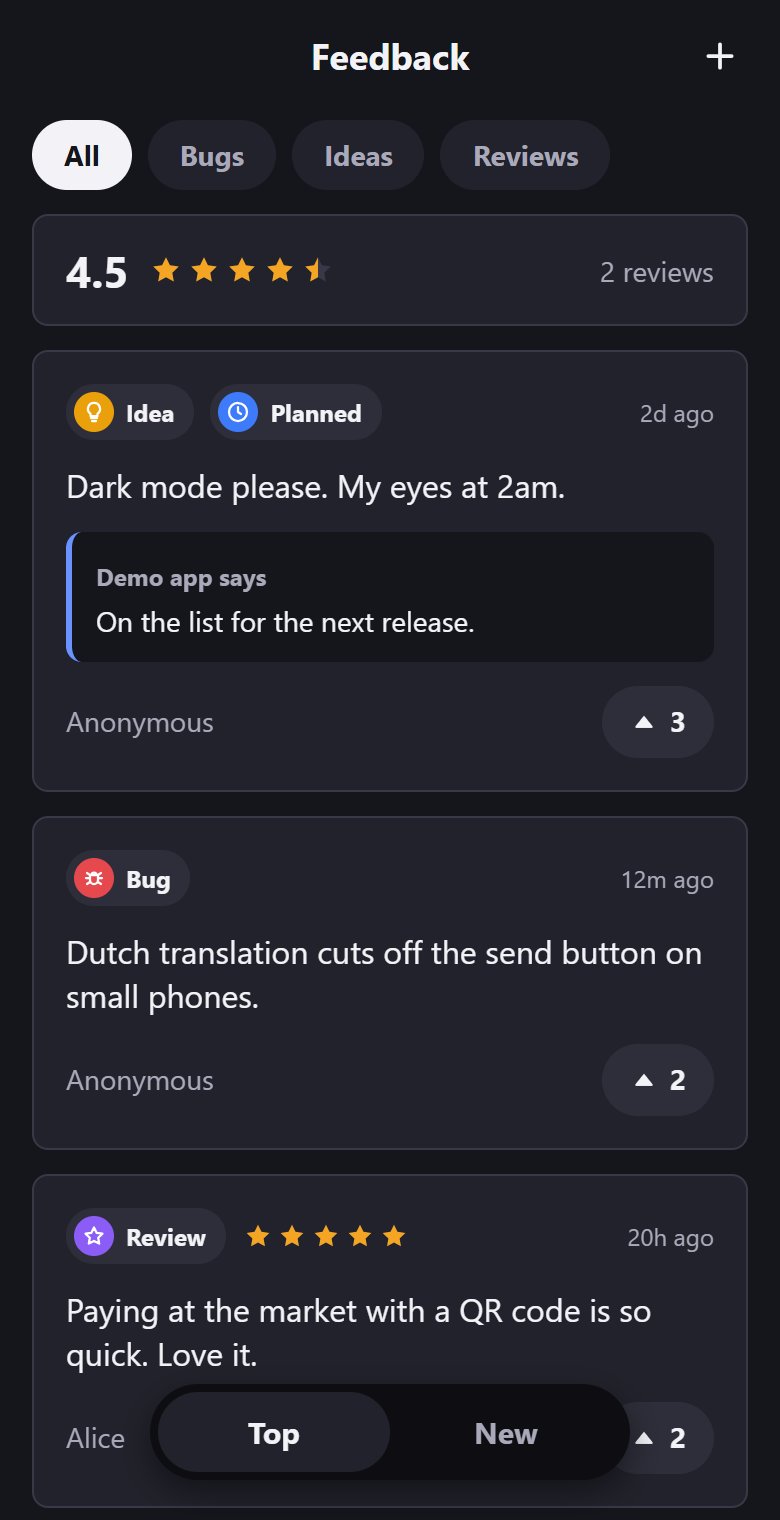
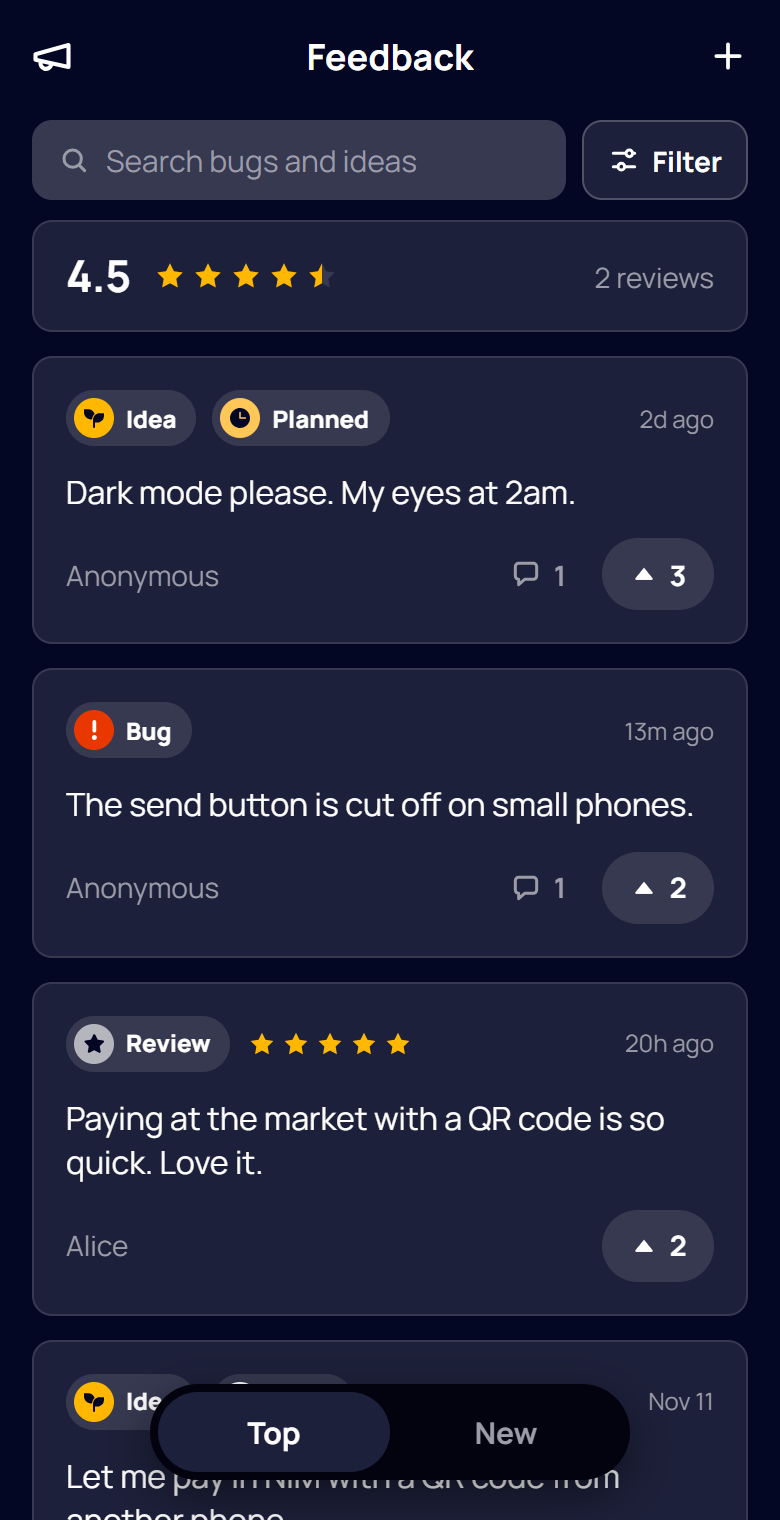
Bring the docs, screenshots and versions to 0.3.0
The README shows the Nimiq themes, the decisions log says where the
Classic look went (the branch classic), and the three packages move to
0.3.0 together.

Changed region(s): [[0.0308, 0.0309, 0.9846, 1.0], [0.6154, 0.9276, 0.6769, 0.9586], [0.8615, 0.9276, 0.8923, 0.9586]]

diff --git a/docs/decisions.md b/docs/decisions.md
@@ -4,6 +4,12 @@ Why PleaseNoBugs is the way it is. Newest at the bottom. When a decision is
 reversed, add a new entry rather than editing the old one, so the reasoning
 that was tried survives.
 
+Until 2026-11-19 the website and the widget also had a second, playful look
+("Classic": dark purple, raised buttons, colouring the widget in yourself) and
+spoke Dutch and German. Entries about those describe code that is no longer
+on `main`; it is kept on the branch `classic` (tag `classic-2026-11-19`).
+See the entry of that day.
+
 ## 2026-10-14: Where it comes from
 
 Extracted from the feedback board in [Shitti](https://shitti.me), a Nimiq Pay
@@ -1572,6 +1578,26 @@ it is that master mark (91 × 80, Brand/500), exported as
 `assets/nimiq/hexagon-2026.svg`: in the header (27 × 24, the brand's 0.4 ×
 its height to the name), the footer, the tab's icon and the last step of
 Make it yours; also swapped in the Figma page's logo and footer components.
+
+## 2026-11-19: Nimiq only, English only
+
+For sharing with a team, the project is one thing: the Nimiq look.
+
+- **The website** has one look, the Nimiq 2026 brand. The style switch, the
+  Classic look, its colouring Customize and the "Build your own widget"
+  scene are gone; site.css is the one stylesheet (it was site.css, a
+  customize.css and a nimiq.css on top). Visitors see the same pages as
+  before: every state was compared screenshot by screenshot.
+- **The widget** has two themes, `nimiq` (now the default) and
+  `nimiq-dark`. `auto`, `light`, `dark`, `pleasenobugs` and `shitti`, the
+  `accent` attribute and `readableOn` are gone; the `--pnb-*` custom
+  properties still override any colour.
+- **English only.** Dutch and German left the widget. A developer puts it in
+  their app's language with the `strings` property, and `lang` now only says
+  which language that is, for dates. Shitti becomes English when it updates.
+- Everything as it was is parked on the branch `classic` and the tag
+  `classic-2026-11-19`.
+- Versions go to 0.3.0: an app on 0.2.0 keeps its look until it updates.
 
 ## Where it stands
 

diff --git a/README.md b/README.md
@@ -10,10 +10,10 @@ one place, without asking anybody to send you an email.
   <img src="docs/images/board-light.png" width="250" alt="The board in light mode: ideas and bugs with votes and the app's answers">
   <img src="docs/images/board-dark.png" width="250" alt="The same board in dark mode">
   <img src="docs/images/owner-answer.png" width="250" alt="The owner answering a bug: status, a reply, and the app version it came from">
-  <img src="docs/images/tiles-nimiq.png" width="250" alt="The three tiles behind the plus, in the nimiq theme: report a bug, share an idea, write a review">
+  <img src="docs/images/tiles.png" width="250" alt="The three tiles behind the plus: report a bug, share an idea, write a review">
 </p>
 
-> **Status: 0.2.0, early.** It runs [Shitti](https://shitti.me)'s board.
+> **Status: 0.3.0, early.** It runs [Shitti](https://shitti.me)'s board.
 > This is a community tool, not an official Nimiq product.
 
 ## What it does
@@ -41,8 +41,9 @@ one place, without asking anybody to send you an email.
 - **Anonymous by default.** A name shows only if the author turns it on, and a
   wallet address is never shown to anyone.
 - **Login is the Nimiq wallet your users already have.** No accounts, no email.
-- **Follows the phone**: light or dark, English, Dutch or German, and your
-  accent colour. Or the bright `nimiq` theme.
+- **In Nimiq's look**: the Nimiq Foundation's 2026 brand, light (`nimiq`)
+  or dark (`nimiq-dark`). In English; the `strings` property puts it in your
+  app's own language.
 
 <br clear="right">
 
